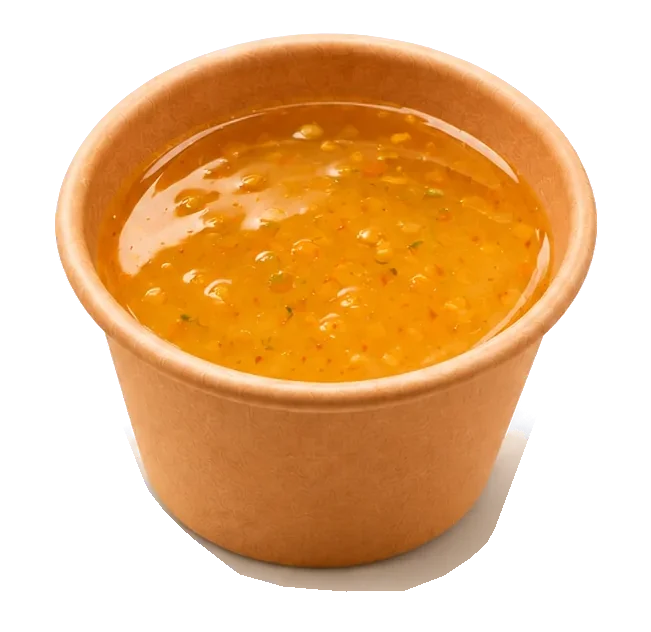
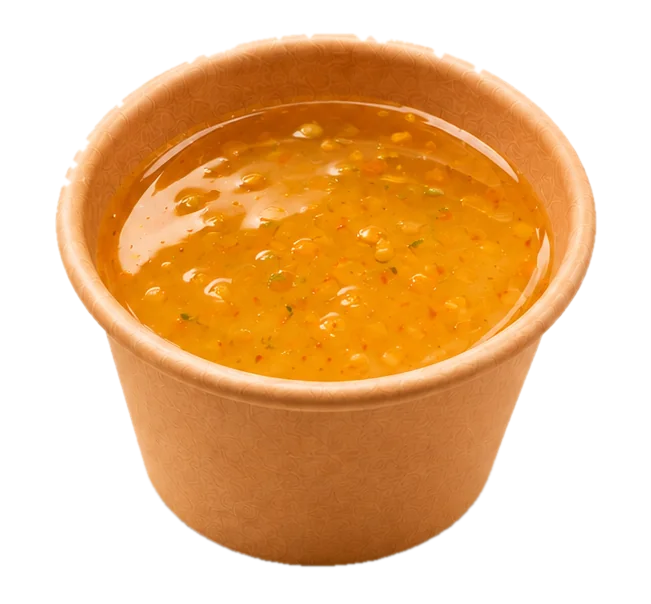
Sauces : détourage net du pot seul, sans frange d'ombre

diff --git a/index.html b/index.html
@@ -678,7 +678,7 @@
 
         <article class="slide slide--sauce is-active">
           <div class="slide__media">
-            <img class="slide__bowl" src="image/sauce-asiatique.webp" alt="Sauce Asiatique : sauce soja, huile de sésame, ail, gingembre et sucre roux" width="651" height="632" loading="lazy" decoding="async">
+            <img class="slide__bowl" src="image/sauce-asiatique.webp" alt="Sauce Asiatique : sauce soja, huile de sésame, ail, gingembre et sucre roux" width="651" height="604" loading="lazy" decoding="async">
           </div>
           <div class="slide__body">
             <h3 class="slide__name"><span class="l1">Sauce</span><span class="l2">Asiatique</span></h3>
@@ -690,7 +690,7 @@
 
         <article class="slide slide--sauce">
           <div class="slide__media">
-            <img class="slide__bowl" src="image/sauce-epicee.webp" alt="Sauce Épicée : sriracha, mayonnaise et sauce soja sucrée" width="651" height="632" loading="lazy" decoding="async">
+            <img class="slide__bowl" src="image/sauce-epicee.webp" alt="Sauce Épicée : sriracha, mayonnaise et sauce soja sucrée" width="651" height="604" loading="lazy" decoding="async">
           </div>
           <div class="slide__body">
             <h3 class="slide__name"><span class="l1">Sauce</span><span class="l2">Épicée</span></h3>
@@ -702,7 +702,7 @@
 
         <article class="slide slide--sauce">
           <div class="slide__media">
-            <img class="slide__bowl" src="image/sauce-agrumes.webp" alt="Sauce Agrumes : orange sanguine, citron vert, moutarde, miel, vinaigre de riz, huile de sésame et soja sucré" width="651" height="632" loading="lazy" decoding="async">
+            <img class="slide__bowl" src="image/sauce-agrumes.webp" alt="Sauce Agrumes : orange sanguine, citron vert, moutarde, miel, vinaigre de riz, huile de sésame et soja sucré" width="651" height="604" loading="lazy" decoding="async">
           </div>
           <div class="slide__body">
             <h3 class="slide__name"><span class="l1">Sauce</span><span class="l2">Agrumes</span></h3>
@@ -714,7 +714,7 @@
 
         <article class="slide slide--sauce">
           <div class="slide__media">
-            <img class="slide__bowl" src="image/sauce-mediterranee.webp" alt="Sauce Méditerranée : huile d'olive, citron, basilic, ail et vinaigre" width="651" height="632" loading="lazy" decoding="async">
+            <img class="slide__bowl" src="image/sauce-mediterranee.webp" alt="Sauce Méditerranée : huile d'olive, citron, basilic, ail et vinaigre" width="651" height="604" loading="lazy" decoding="async">
           </div>
           <div class="slide__body">
             <h3 class="slide__name"><span class="l1">Sauce</span><span class="l2">Méditerranée</span></h3>
